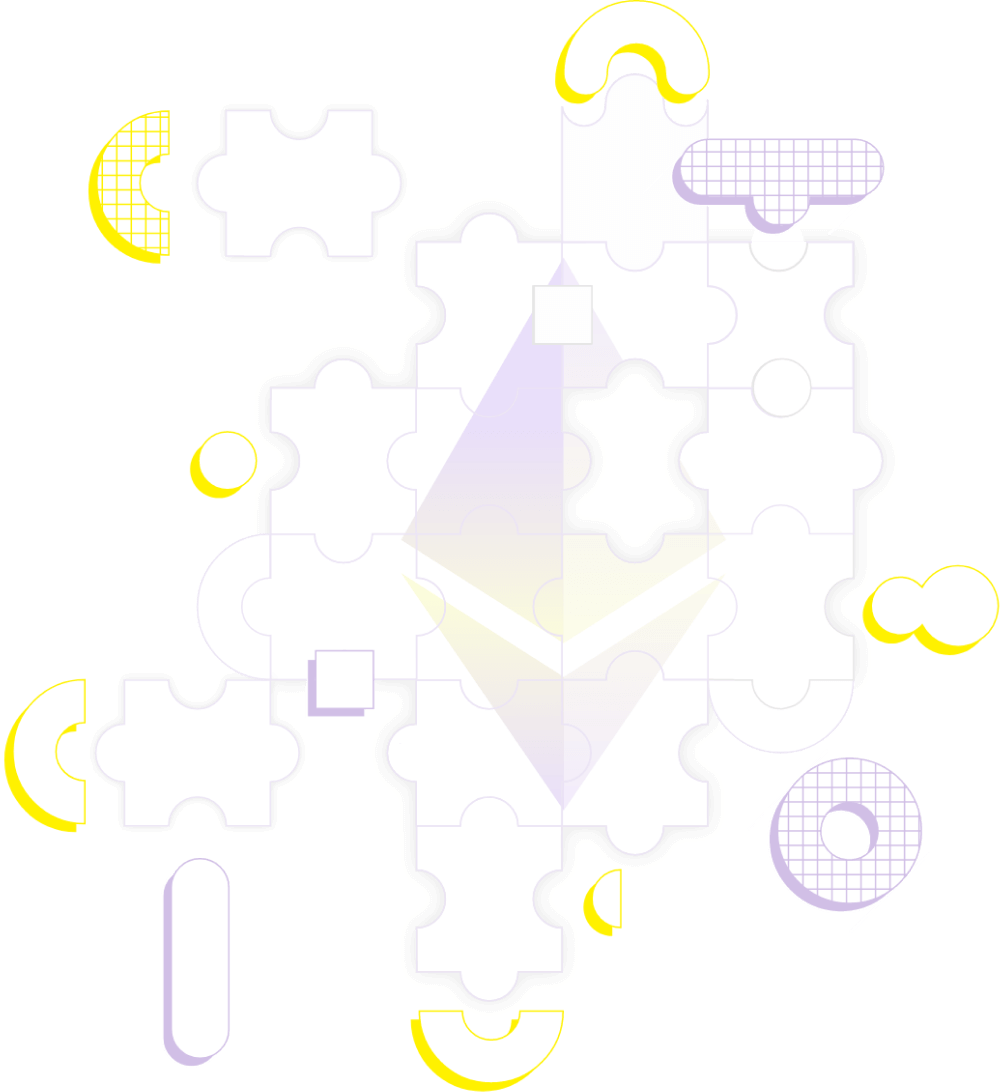
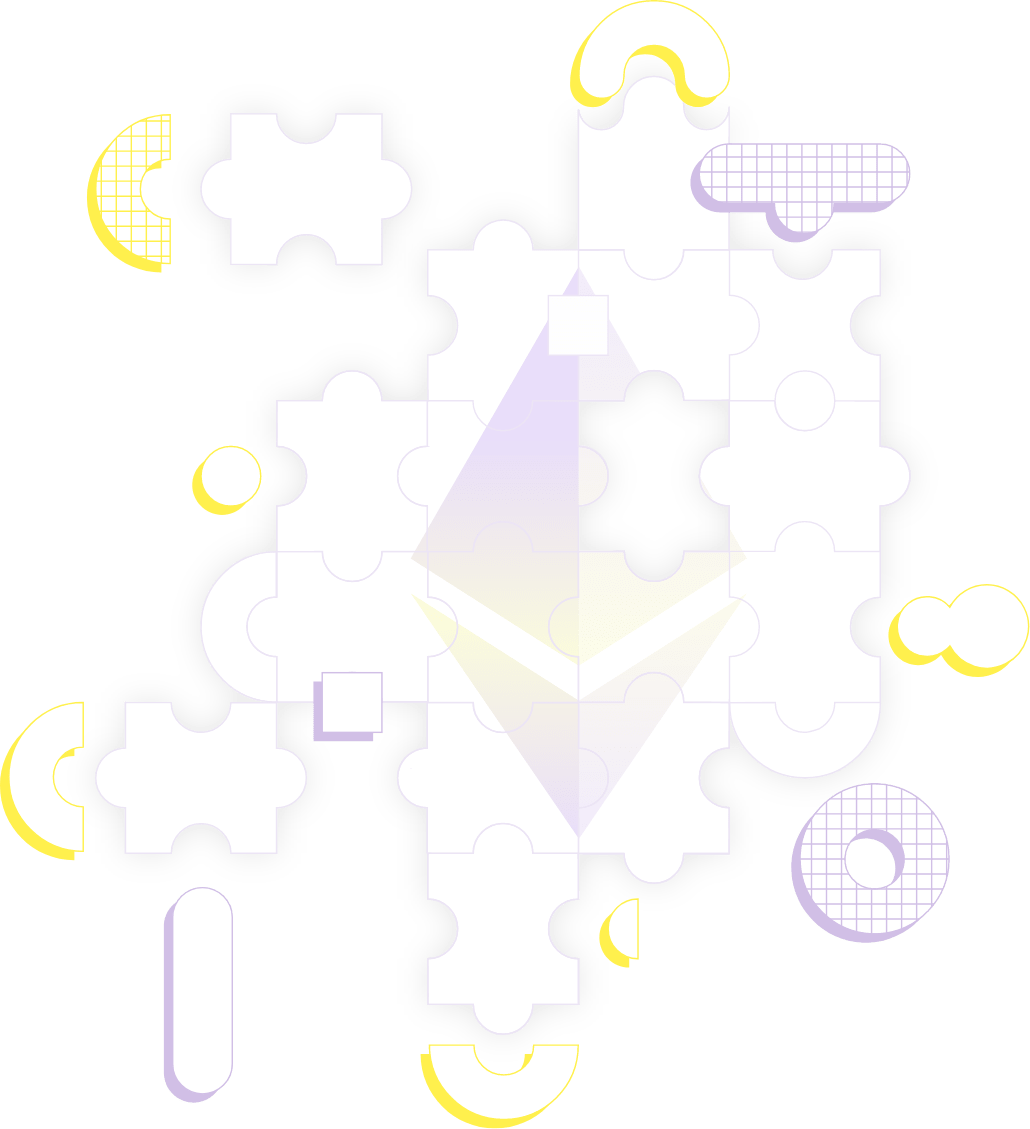
Implement the latests design adjustments by Entrecasa

diff --git a/.vuepress/theme/components/HHWhyHardhat.vue b/.vuepress/theme/components/HHWhyHardhat.vue
@@ -382,6 +382,7 @@ export default {
         line-height 28px
         @media screen and (max-width: 1000px)
           padding 0 15px
+          margin 20px 0 !important
 
       a
         margin-top 2rem
@@ -391,6 +392,7 @@ export default {
         transition 0.1s ease-in-out all
         @media (max-width: 1000px)
           margin-top 0rem
+          margin-bottom 60px
 
         &:hover
           // box-shadow 0 0 5px alpha(black, 0.1)
@@ -428,7 +430,7 @@ export default {
     content ''
     top -50px
     left -10rem
-    box-shadow 0 0 5rem alpha($black, 0.05)
+    box-shadow 0 0 5rem alpha($black, 0.08)
     pointer-events none
     @media (max-width: 1000px)
       width 100%

diff --git a/.vuepress/theme/components/HHWhosUsingHardhat.vue b/.vuepress/theme/components/HHWhosUsingHardhat.vue
@@ -420,13 +420,9 @@ function splitInChunks(arr, chunkSize) {
 
       img
         margin 0 50px
-        opacity .8
         max-height 67px
         transition .1s ease-in-out opacity
         display inline-block
-
-        &:hover
-          opacity 1
 
   .banner-container-mobile
     @media screen and (min-width: 760px)
@@ -442,5 +438,4 @@ function splitInChunks(arr, chunkSize) {
       img
         margin 0 20px
         height 41px
-        opacity 1
 </style>
